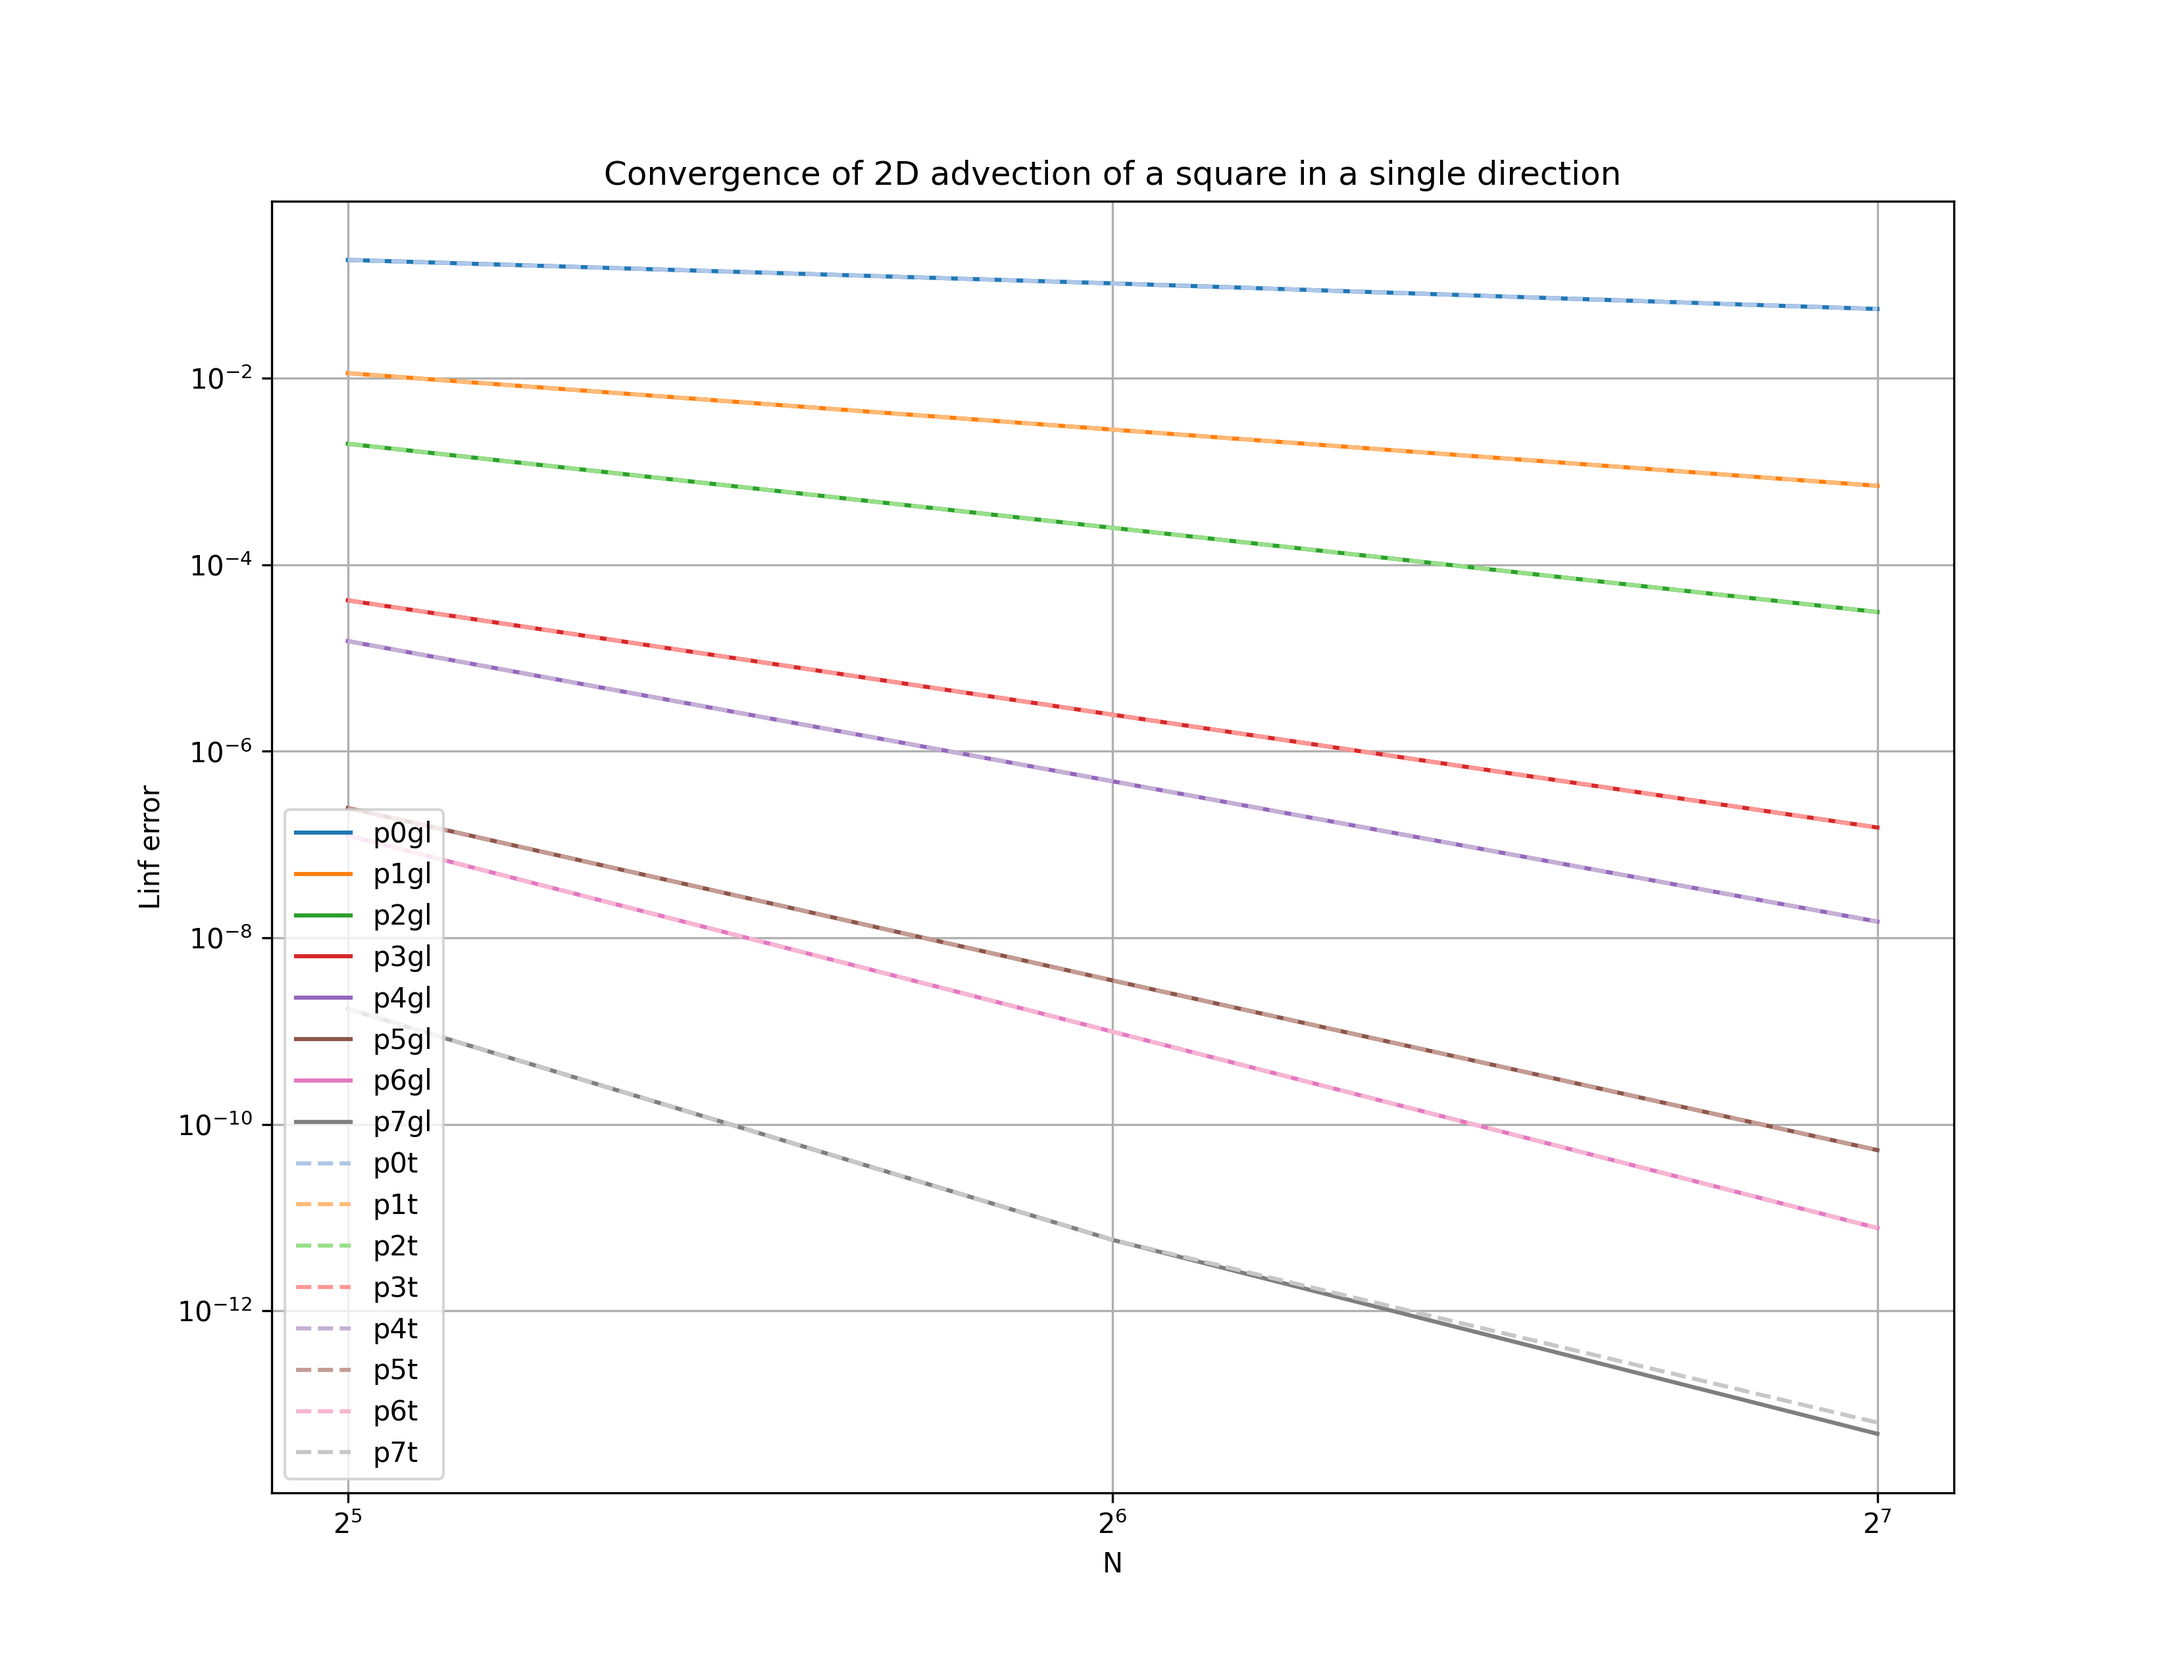
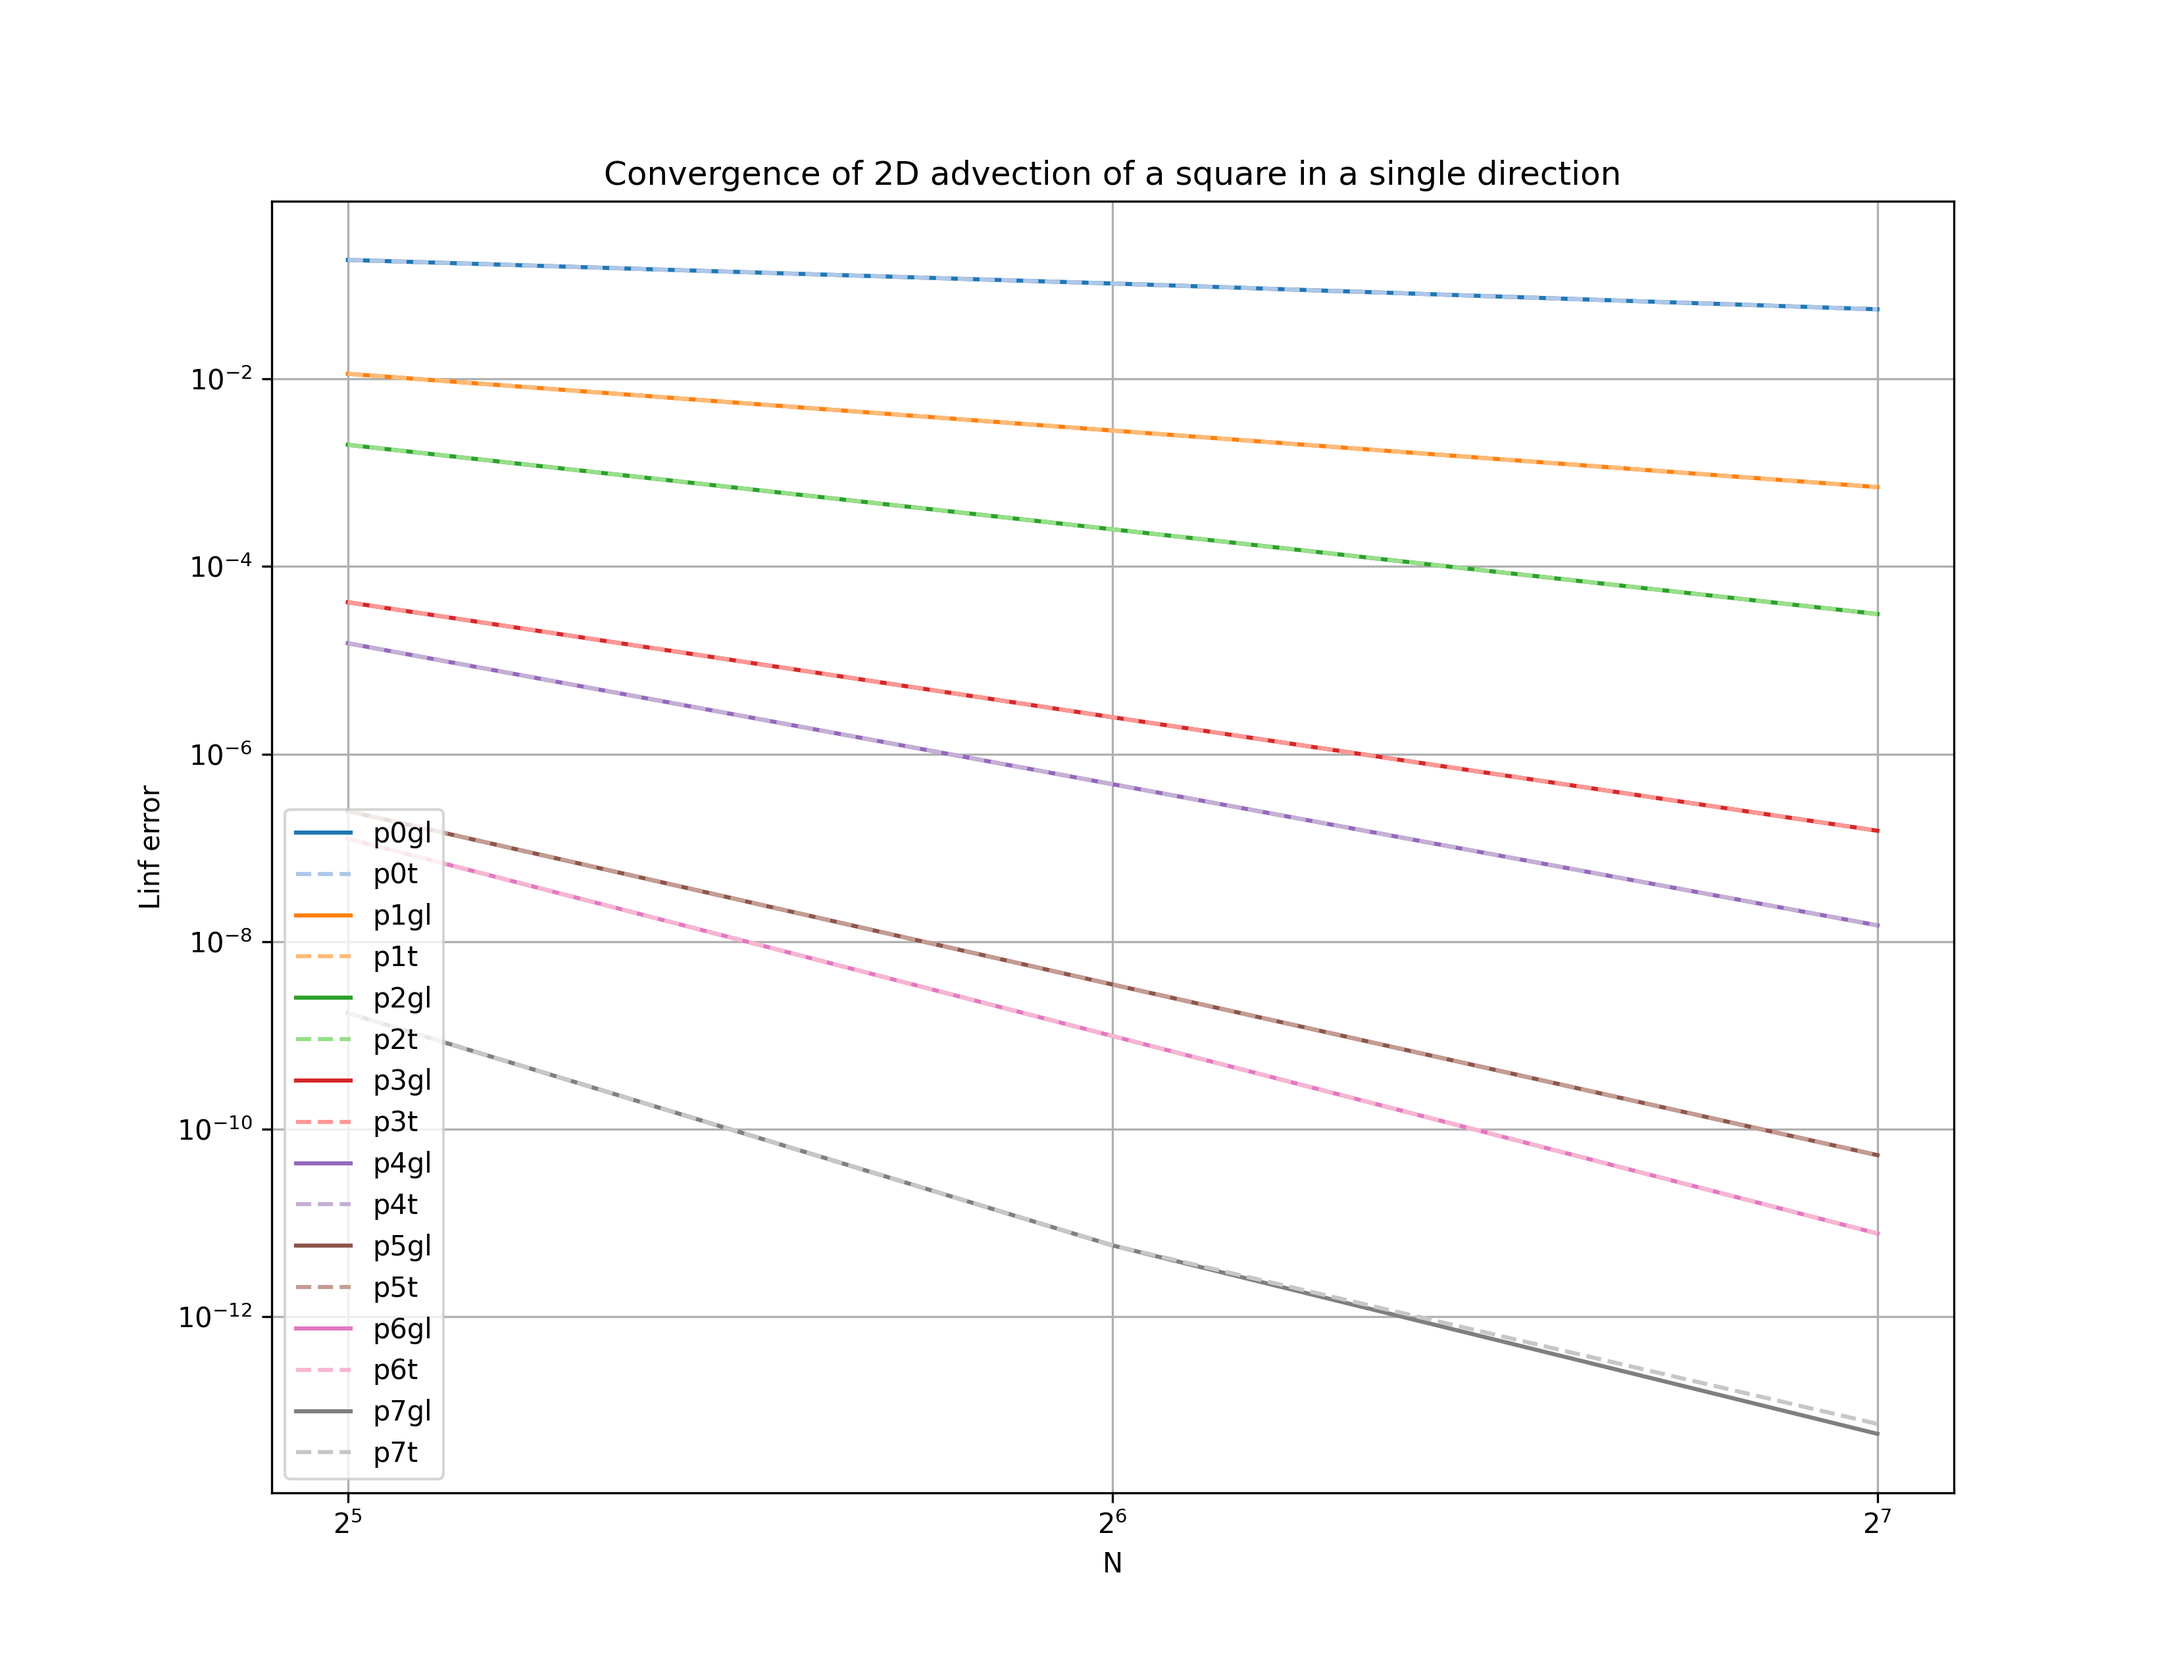
fix: interpolate_faces actually uses fv_cuda functions

diff --git a/superfv/finite_volume_solver.py b/superfv/finite_volume_solver.py
@@ -1622,24 +1622,16 @@ class FiniteVolumeSolver(ExplicitODESolver, ABC):
             left face interpolations are written along [:, :, :, :, :ni] and the right
             face interpolations are written along [:, :, :, :, ni:2*ni].
         """
-        xp = self.xp
-        adims = self.active_dims
-
-        out = self.arrays[f"_{dim}_nodes_"]
-        buffer = self.arrays["_buffer_"]
-
-        # perform interpolation
         p = scheme.p
+        nodes = self.arrays[f"_{dim}_nodes_"]
+
         if scheme.gauss_legendre:
-            fv.interpolate_GaussLegendre_nodes(
-                xp, u, dim, adims, p, out=out, buffer=buffer
-            )
+            self.interpolate_GaussLegendre_nodes(u, dim, p)  # updates nodes
         else:
-            fv.interpolate_face_centers(xp, u, dim, adims, p, out=out, buffer=buffer)
+            self.interpolate_face_centers(u, dim, p)  # updates nodes
 
         if convert_to_primitives:
-            # convert to primitive variables if requested
-            out[...] = self.primitives_from_conservatives(out)
+            nodes[...] = self.primitives_from_conservatives(nodes)
 
     @MethodTimer(cat="interpolate_faces:GL")
     def interpolate_GaussLegendre_nodes(
@@ -1669,7 +1661,7 @@ class FiniteVolumeSolver(ExplicitODESolver, ABC):
         active_dims = self.active_dims
         ndim = self.mesh.ndim
 
-        midline = arrays["_buffer1_"]
+        midline = arrays["_buffer1_"][..., 0]
         nodes = arrays[f"_{dim}_nodes_"]
         buffer = arrays["_buffer_"]
 

diff --git a/superfv/fv_cuda.py b/superfv/fv_cuda.py
@@ -296,8 +296,8 @@ if CUPY_AVAILABLE:
         """
         extern "C" __global__
         void interpolate_gauss_legendre_nodes_kernel(
-            __restrict__ const double* w,
-            __restrict__ double* wj,
+            const double* __restrict__ u,
+            double* __restrict__ uj,
             const int p,
             const int dim,
             const int nvars,
@@ -305,8 +305,8 @@ if CUPY_AVAILABLE:
             const int ny,
             const int nz
         ){
-            // w    shape (nvars, nx, ny, nz, 2)
-            // wj   shape (nvars, nx, ny, nz, 2 * ninterps)
+            // u    shape (nvars, nx, ny, nz, 2)
+            // uj   shape (nvars, nx, ny, nz, 2 * ninterps)
             // p    polynomial degree {0, ..., 7}, determines ninterps
 
             const long long tid = (long long)blockIdx.x * blockDim.x + threadIdx.x;
@@ -742,14 +742,14 @@ if CUPY_AVAILABLE:
                                     case 8: w = x3w8; break;
                                 } break;
                         }
-                        result += w * w[j];
+                        result += w * u[j];
                     }
-                    wj[output_idx] = result;
+                    uj[output_idx] = result;
                 }
             }
         }
         """,
-        name="lr_conservative_interpolation_kernel",
+        name="interpolate_gauss_legendre_nodes_kernel",
     )
 
     gauss_legendre_quadrature_kernel = cp.RawKernel(

diff --git a/benchmarks/hydro-advection-of-a-square/__main__.py b/benchmarks/hydro-advection-of-a-square/__main__.py
@@ -40,20 +40,20 @@ configs = {
     # "MM3/3revs/rtol_1e-3": dict(p=3, NAD_rtol=1e-3, **aposteriori3),
     # "MM7/3revs/rtol_1e-3": dict(p=7, NAD_rtol=1e-3, **aposteriori3),
     "p0gl": dict(p=0, GL=True),
-    "p1gl": dict(p=1, GL=True),
-    "p2gl": dict(p=2, GL=True),
-    "p3gl": dict(p=3, GL=True),
-    "p4gl": dict(p=4, GL=True),
-    "p5gl": dict(p=5, GL=True),
-    "p6gl": dict(p=6, GL=True),
-    "p7gl": dict(p=7, GL=True),
     "p0t": dict(p=0),
+    "p1gl": dict(p=1, GL=True),
     "p1t": dict(p=1),
+    "p2gl": dict(p=2, GL=True),
     "p2t": dict(p=2),
+    "p3gl": dict(p=3, GL=True),
     "p3t": dict(p=3),
+    "p4gl": dict(p=4, GL=True),
     "p4t": dict(p=4),
+    "p5gl": dict(p=5, GL=True),
     "p5t": dict(p=5),
+    "p6gl": dict(p=6, GL=True),
     "p6t": dict(p=6),
+    "p7gl": dict(p=7, GL=True),
     "p7t": dict(p=7),
 }
 
@@ -157,7 +157,7 @@ for (name, config), N in product(configs.items(), N_values):
         print(f"- - - Starting simulation: {name}, N={N} - - -")
         print(f"\tRunning config with name '{name}' and writing to path '{sim_path}'.")
 
-        sim = EulerSolver(ic=sinus, nx=N, ny=N, gamma=gamma, cupy=N >= 64, **config)
+        sim = EulerSolver(ic=sinus, nx=N, ny=N, gamma=gamma, cupy=True, **config)
 
         try:
             sim.run(
